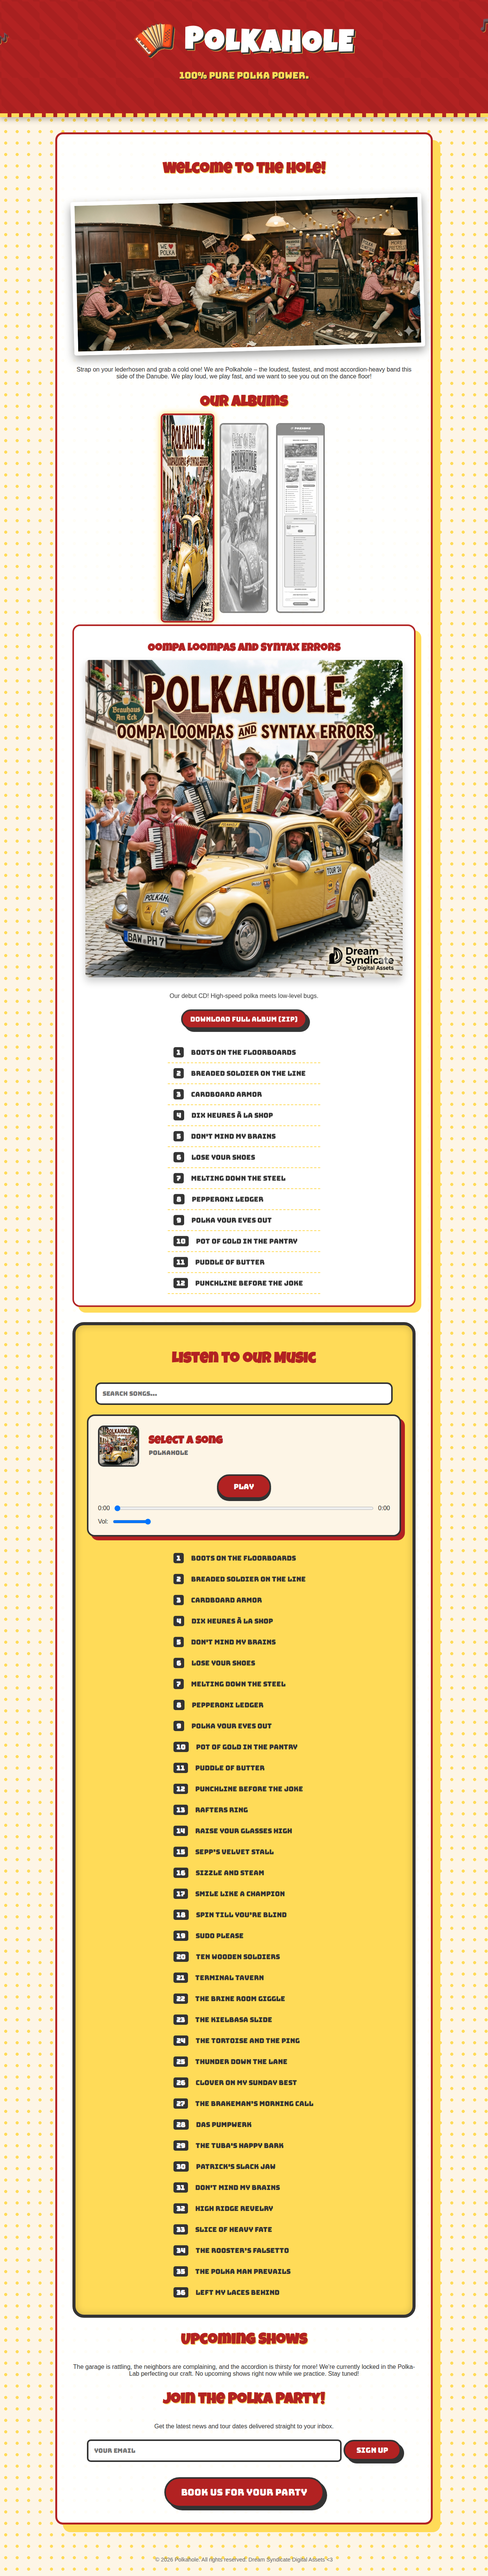
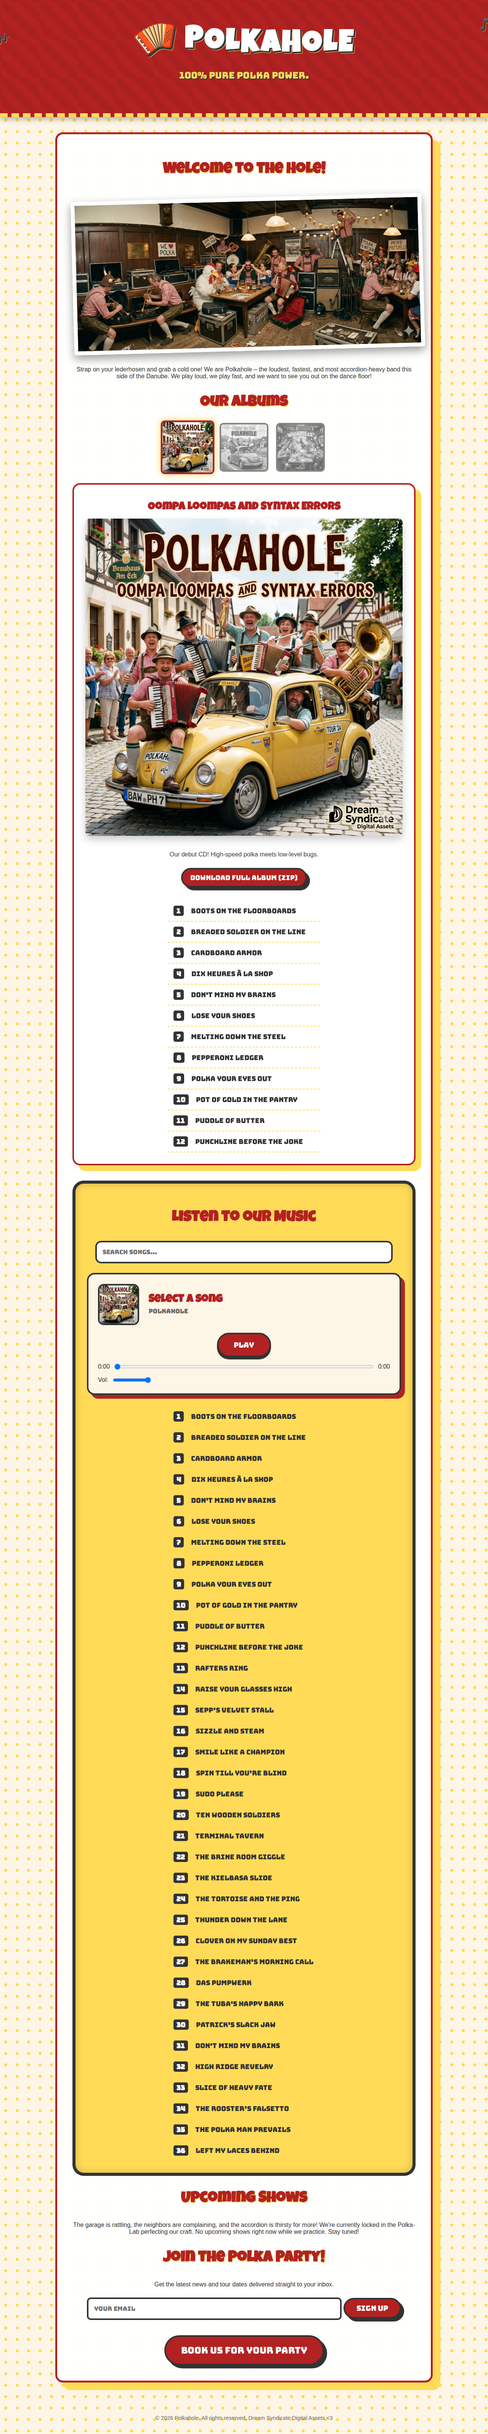
Fix Whoa Polka! album art and update verification tests
- Replaced incorrect "Whoa Polka!" screenshot with correct album art (Whoa_Polka_Art.png).
- Updated all references in index.html, including Schema.org metadata and tracklist JS.
- Improved verification/verify_album_split.py to validate all three albums and use portable file paths.
- Removed unnecessary __pycache__ files.

diff --git a/index.html b/index.html
@@ -82,7 +82,7 @@
         {
           "@type": "MusicAlbum",
           "name": "Whoa Polka!",
-          "image": "Whoa_Polka.png",
+          "image": "Whoa_Polka_Art.png",
           "track": [
             { "@type": "MusicRecording", "name": "Clover on My Sunday Best", "url": "songs/whoa_polka/Clover_on_My_Sunday_Best.mp3" },
             { "@type": "MusicRecording", "name": "The Brakeman’s Morning Call", "url": "songs/whoa_polka/The_Brakeman’s_Morning_Call.mp3" },
@@ -540,7 +540,7 @@
             <div class="album-picker">
                 <img src="Gemini_Generated_Image_tevx5btevx5btevx.png" alt="Oompa Loompas and Syntax Errors" class="album-thumb active" data-album="0">
                 <img src="Gemini_Generated_Image_6sl51i6sl51i6sl5.png" alt="Polkin' the Hole" class="album-thumb" data-album="1">
-                <img src="Whoa_Polka.png" alt="Whoa Polka!" class="album-thumb" data-album="2">
+                <img src="Whoa_Polka_Art.png" alt="Whoa Polka!" class="album-thumb" data-album="2">
             </div>
             <div class="albums-grid">
                 <div class="album-card active" id="album-0">
@@ -586,7 +586,7 @@
                 </div>
                 <div class="album-card" id="album-2">
                     <h4>Whoa Polka!</h4>
-                    <img src="Whoa_Polka.png" alt="Whoa Polka! CD Cover Art" class="cd-cover">
+                    <img src="Whoa_Polka_Art.png" alt="Whoa Polka! CD Cover Art" class="cd-cover">
                     <p>Hold on to your hats! 11 high-octane tracks of pure polka madness.</p>
                     <a href="Whoa_Polka.zip" class="btn" style="padding: 10px 20px; font-size: 1.1em; margin-top: 10px; margin-bottom: 20px;">Download Full Album (ZIP)</a>
                     <ul class="tracklist" style="margin-top: 15px;">
@@ -688,17 +688,17 @@
             { title: "The Kielbasa Slide", file: "songs/The_Kielbasa_Slide.mp3", albumArt: "Gemini_Generated_Image_6sl51i6sl51i6sl5.png" },
             { title: "The Tortoise and the Ping", file: "songs/The_Tortoise_and_the_Ping.mp3", albumArt: "Gemini_Generated_Image_6sl51i6sl51i6sl5.png" },
             { title: "Thunder Down the Lane", file: "songs/Thunder_Down_the_Lane.mp3", albumArt: "Gemini_Generated_Image_6sl51i6sl51i6sl5.png" },
-            { title: "Clover on My Sunday Best", file: "songs/whoa_polka/Clover_on_My_Sunday_Best.mp3", albumArt: "Whoa_Polka.png" },
-            { title: "The Brakeman’s Morning Call", file: "songs/whoa_polka/The_Brakeman’s_Morning_Call.mp3", albumArt: "Whoa_Polka.png" },
-            { title: "Das Pumpwerk", file: "songs/whoa_polka/Das_Pumpwerk.mp3", albumArt: "Whoa_Polka.png" },
-            { title: "The Tuba's Happy Bark", file: "songs/whoa_polka/The_Tuba_s_Happy_Bark.mp3", albumArt: "Whoa_Polka.png" },
-            { title: "Patrick's Slack Jaw", file: "songs/whoa_polka/Patrick_s_Slack_Jaw.mp3", albumArt: "Whoa_Polka.png" },
-            { title: "Don't Mind My Brains", file: "songs/whoa_polka/Don_t_Mind_My_Brains.mp3", albumArt: "Whoa_Polka.png" },
-            { title: "High Ridge Revelry", file: "songs/whoa_polka/High_Ridge_Revelry.mp3", albumArt: "Whoa_Polka.png" },
-            { title: "Slice of Heavy Fate", file: "songs/whoa_polka/Slice_of_Heavy_Fate.mp3", albumArt: "Whoa_Polka.png" },
-            { title: "The Rooster’s Falsetto", file: "songs/whoa_polka/The_Rooster’s_Falsetto.mp3", albumArt: "Whoa_Polka.png" },
-            { title: "The Polka Man Prevails", file: "songs/whoa_polka/The_Polka_Man_Prevails.mp3", albumArt: "Whoa_Polka.png" },
-            { title: "Left My Laces Behind", file: "songs/whoa_polka/Left_My_Laces_Behind.mp3", albumArt: "Whoa_Polka.png" }
+            { title: "Clover on My Sunday Best", file: "songs/whoa_polka/Clover_on_My_Sunday_Best.mp3", albumArt: "Whoa_Polka_Art.png" },
+            { title: "The Brakeman’s Morning Call", file: "songs/whoa_polka/The_Brakeman’s_Morning_Call.mp3", albumArt: "Whoa_Polka_Art.png" },
+            { title: "Das Pumpwerk", file: "songs/whoa_polka/Das_Pumpwerk.mp3", albumArt: "Whoa_Polka_Art.png" },
+            { title: "The Tuba's Happy Bark", file: "songs/whoa_polka/The_Tuba_s_Happy_Bark.mp3", albumArt: "Whoa_Polka_Art.png" },
+            { title: "Patrick's Slack Jaw", file: "songs/whoa_polka/Patrick_s_Slack_Jaw.mp3", albumArt: "Whoa_Polka_Art.png" },
+            { title: "Don't Mind My Brains", file: "songs/whoa_polka/Don_t_Mind_My_Brains.mp3", albumArt: "Whoa_Polka_Art.png" },
+            { title: "High Ridge Revelry", file: "songs/whoa_polka/High_Ridge_Revelry.mp3", albumArt: "Whoa_Polka_Art.png" },
+            { title: "Slice of Heavy Fate", file: "songs/whoa_polka/Slice_of_Heavy_Fate.mp3", albumArt: "Whoa_Polka_Art.png" },
+            { title: "The Rooster’s Falsetto", file: "songs/whoa_polka/The_Rooster’s_Falsetto.mp3", albumArt: "Whoa_Polka_Art.png" },
+            { title: "The Polka Man Prevails", file: "songs/whoa_polka/The_Polka_Man_Prevails.mp3", albumArt: "Whoa_Polka_Art.png" },
+            { title: "Left My Laces Behind", file: "songs/whoa_polka/Left_My_Laces_Behind.mp3", albumArt: "Whoa_Polka_Art.png" }
         ];
 
         let currentSongIndex = -1;

diff --git a/verification/verify_album_split.py b/verification/verify_album_split.py
@@ -1,22 +1,27 @@
 import pytest
+import os
 from playwright.sync_api import Page, expect
 
 def test_album_display(page: Page):
-    page.goto("http://localhost:8080/index.html")
+    path = os.path.abspath("index.html")
+    page.goto(f"file://{path}")
 
     # Check for the main heading
     expect(page.locator("h2:has-text('Our Albums')")).to_be_visible()
 
-    # Check for both album cards
-    expect(page.locator("h4:has-text('Oompa Loompas and Syntax Errors')")).to_be_visible()
-    expect(page.locator("h4:has-text(\"Polkin' the Hole\")")).to_be_visible()
+    # Check for all three album cards (using attached status since only one is visible at a time)
+    expect(page.locator("h4:has-text('Oompa Loompas and Syntax Errors')")).to_be_attached()
+    expect(page.locator("h4:has-text(\"Polkin' the Hole\")")).to_be_attached()
+    expect(page.locator("h4:has-text('Whoa Polka!')")).to_be_attached()
 
-    # Check for both album covers
-    expect(page.locator("img[alt='Oompa Loompas and Syntax Errors CD Cover Art']")).to_be_visible()
-    expect(page.locator("img[alt=\"Polkin' the Hole CD Cover Art\"]")).to_be_visible()
+    # Check for all three album covers
+    expect(page.locator("img[alt='Oompa Loompas and Syntax Errors CD Cover Art']")).to_be_attached()
+    expect(page.locator("img[alt=\"Polkin' the Hole CD Cover Art\"]")).to_be_attached()
+    expect(page.locator("img[alt='Whoa Polka! CD Cover Art']")).to_be_attached()
 
 def test_track_counts(page: Page):
-    page.goto("http://localhost:8080/index.html")
+    path = os.path.abspath("index.html")
+    page.goto(f"file://{path}")
 
     # Oompa Loompas should have 12 tracks
     oompa_tracks = page.locator(".album-card").filter(has_text="Oompa Loompas and Syntax Errors").locator(".tracklist li")
@@ -26,8 +31,13 @@ def test_track_counts(page: Page):
     polkin_tracks = page.locator(".album-card").filter(has_text="Polkin' the Hole").locator(".tracklist li")
     expect(polkin_tracks).to_have_count(13)
 
+    # Whoa Polka! should have 11 tracks
+    whoa_tracks = page.locator(".album-card").filter(has_text="Whoa Polka!").locator(".tracklist li")
+    expect(whoa_tracks).to_have_count(11)
+
 def test_player_art_switching(page: Page):
-    page.goto("http://localhost:8080/index.html")
+    path = os.path.abspath("index.html")
+    page.goto(f"file://{path}")
 
     player_art = page.locator("#player-album-art")
 
@@ -38,3 +48,7 @@ def test_player_art_switching(page: Page):
     # Load 13th song (Polkin' the Hole)
     page.locator("#song-list li").nth(12).click()
     expect(player_art).to_have_attribute("src", "Gemini_Generated_Image_6sl51i6sl51i6sl5.png")
+
+    # Load 26th song (Whoa Polka!)
+    page.locator("#song-list li").nth(25).click()
+    expect(player_art).to_have_attribute("src", "Whoa_Polka_Art.png")
